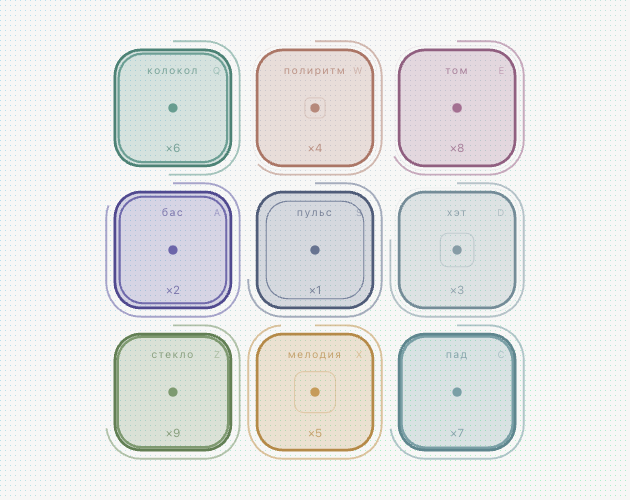
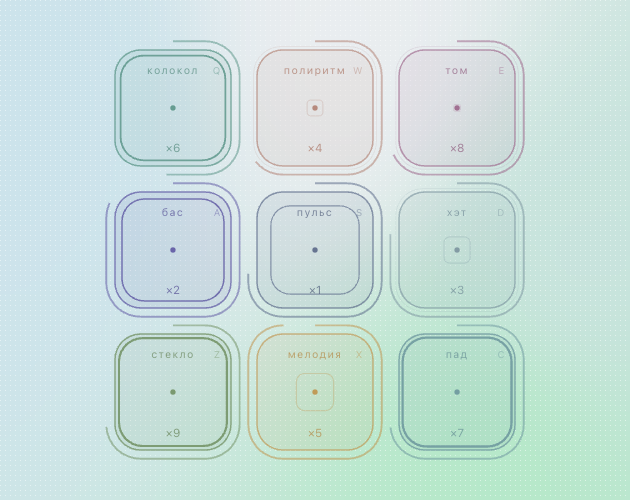
Фон: сплошной анимированный градиент, белые точки поверх
Слои разделены. Раньше градиент и был точками — цветные точки на бумаге.
Теперь снизу поле во всю площадь, сверху сетка белых точек.

Точки одного цвета, поэтому маска через destination-in больше не нужна:
достаточно замостить экран повторяющимся узором белых точек — одна заливка
вместо трёх полноэкранных операций. Слой-канвас удалён.

Цвет поля пересчитан под заливку: тот, что был подобран под точки (светлота
69, насыщенность 80), во всю площадь читался бы плотной плашкой и забивал бы
светлый интерфейс. Стало 87 и 52.

Замер: точки на 18–25 единиц светлее фона, 118 fps. Витринные материалы
пересняты под новый фон.

diff --git a/game.js b/game.js
@@ -907,13 +907,12 @@
   var mpx = [0, 0, 0, 0], mpy = [0, 0, 0, 0];
   var mcr = [0, 0, 0, 0], mcg = [0, 0, 0, 0], mcb = [0, 0, 0, 0];
 
-  /* Цвет поля считается для точек, а не для заливки. Точки покрывают ~4 %
-     площади и стоят на половинной прозрачности, поэтому бледный цвет,
-     годившийся для сплошного фона, здесь пропадает полностью: сетку видно
-     только если сама точка заметно темнее бумаги. */
+  /* Поле снова сплошное, поэтому цвет считается для заливки: тот, что был
+     подобран под точки (светлота 69, насыщенность 80), во всю площадь читался
+     бы как плотная плашка и забивал бы светлый интерфейс. */
   function computeField(t, tension, beatDip) {
-    var sat = 80 + 40 * tension;
-    var light = 69 - 11 * tension - beatDip;
+    var sat = 52 + 28 * tension;
+    var light = 87 - 11 * tension - beatDip;
 
     for (var i = 0; i < 4; i++) {
       var p = POINTS[i];
@@ -943,15 +942,13 @@
     mg.putImageData(meshImg, 0, 0);
   }
 
-  /* Поле выводится не заливкой, а сеткой точек в один пиксель. Рисовать их
-     поштучно нельзя: при таком шаге их десятки тысяч на кадр. Поэтому поле
-     рисуется целиком в слой, а потом по нему вырезается точечная маска —
-     три полноэкранных операции вместо десятков тысяч заливок. */
+  /* Два слоя: снизу сплошное поле градиента, сверху сетка белых точек.
+     Точки в один пиксель поштучно не нарисовать — при таком шаге их десятки
+     тысяч на кадр. Но раз они одного цвета, достаточно замостить экран
+     повторяющимся узором: одна заливка вместо десятков тысяч. */
   var DOT_STEP = 5;    // шаг сетки в CSS-пикселях
   var DOT_ALPHA = 0.5; // прозрачность сетки
 
-  var layer = document.createElement('canvas');
-  var lg = layer.getContext('2d');
   var dotTile = document.createElement('canvas');
   var dotPattern = null, tileStep = 0, tileDot = 0;
 
@@ -961,9 +958,9 @@
     dotTile.height = step;
     var tg = dotTile.getContext('2d');
     tg.clearRect(0, 0, step, step);
-    tg.fillStyle = '#000';
+    tg.fillStyle = '#fff';
     tg.fillRect(0, 0, dot, dot);
-    dotPattern = lg.createPattern(dotTile, 'repeat');
+    dotPattern = g.createPattern(dotTile, 'repeat');
     tileStep = step;
     tileDot = dot;
   }
@@ -975,31 +972,18 @@
     var W = cv.width, H = cv.height;
     var dot = Math.max(1, Math.round(dpr));            // один CSS-пиксель
     var step = Math.max(dot + 1, Math.round(DOT_STEP * dpr));
-
-    if (layer.width !== W || layer.height !== H) {
-      layer.width = W;
-      layer.height = H;
-      dotPattern = null;                               // контекст слоя пересоздан
-    }
     ensureDotPattern(step, dot);
 
-    // поле целиком в слой, затем оставляем от него только точки сетки
-    lg.setTransform(1, 0, 0, 1, 0, 0);
-    lg.globalCompositeOperation = 'source-over';
-    lg.clearRect(0, 0, W, H);
-    lg.imageSmoothingEnabled = true;
-    lg.drawImage(mesh, 0, 0, W, H);
-    lg.globalCompositeOperation = 'destination-in';
-    lg.fillStyle = dotPattern;
-    lg.fillRect(0, 0, W, H);
-    lg.globalCompositeOperation = 'source-over';
-
     g.setTransform(1, 0, 0, 1, 0, 0);
-    g.fillStyle = 'hsl(' + lerp(48, 16, tension).toFixed(0) + ',' +
-      (6 + 12 * tension).toFixed(1) + '%,' + (96.6 - 2.4 * tension - beatDip).toFixed(2) + '%)';
-    g.fillRect(0, 0, W, H);
+
+    // нижний слой: градиент во всю площадь
+    g.imageSmoothingEnabled = true;
+    g.drawImage(mesh, 0, 0, W, H);
+
+    // верхний слой: сетка белых точек
     g.globalAlpha = DOT_ALPHA;
-    g.drawImage(layer, 0, 0);
+    g.fillStyle = dotPattern;
+    g.fillRect(0, 0, W, H);
     g.globalAlpha = 1;
   }
 

diff --git a/index.html b/index.html
@@ -4,7 +4,7 @@
 <meta charset="utf-8">
 <meta name="viewport" content="width=device-width, initial-scale=1">
 <title>втакт</title>
-<link rel="stylesheet" href="styles.css?v=28">
+<link rel="stylesheet" href="styles.css?v=29">
 </head>
 <body>
   <canvas id="stage"></canvas>
@@ -78,9 +78,9 @@
   </div>
 
   <!-- ?v= — против кэша GitHub Pages (max-age=600): поднимать при правках -->
-  <script src="store.js?v=28"></script>
-  <script src="i18n.js?v=28"></script>
-  <script src="audio.js?v=28"></script>
-  <script src="game.js?v=28"></script>
+  <script src="store.js?v=29"></script>
+  <script src="i18n.js?v=29"></script>
+  <script src="audio.js?v=29"></script>
+  <script src="game.js?v=29"></script>
 </body>
 </html>
